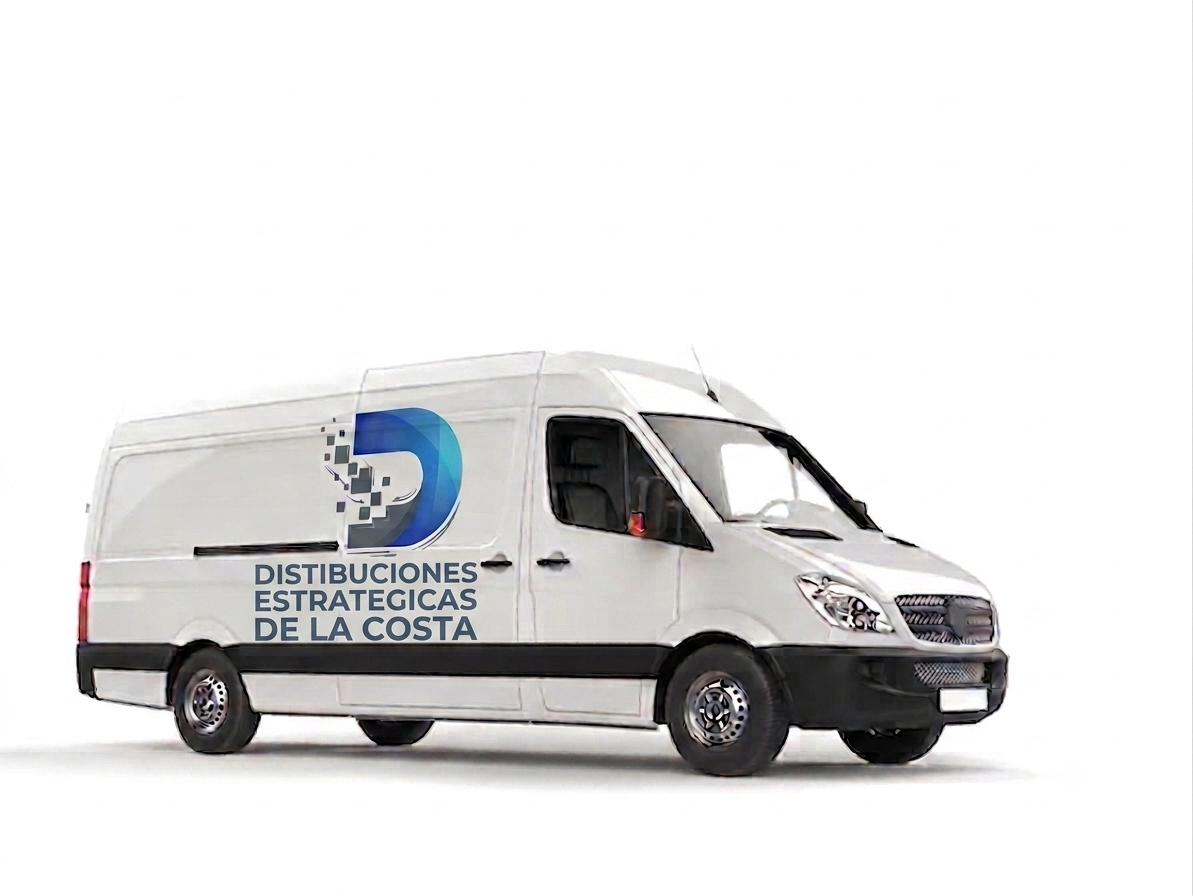
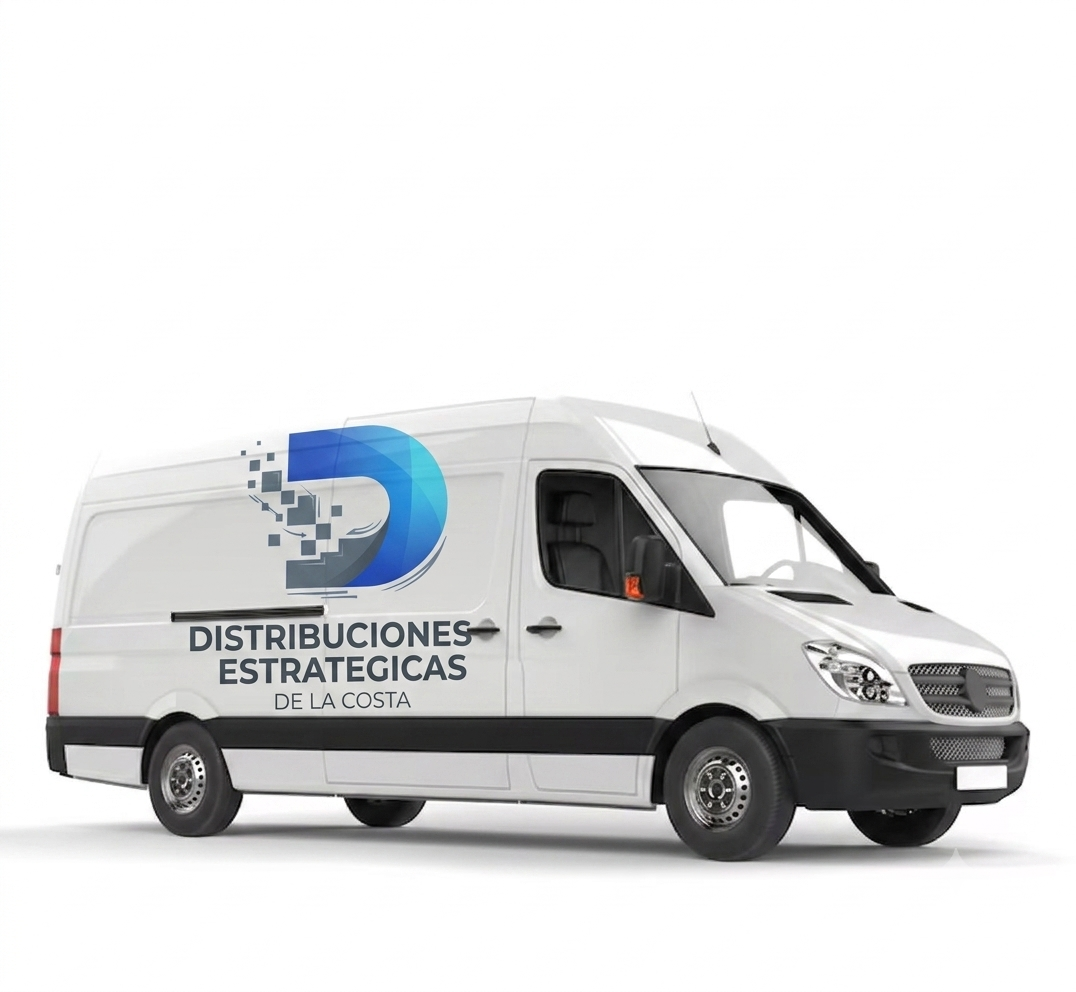
Nueva foto de furgonetas y limpieza de imagenes sin usar
VANS.png llega reemplazada (1076x992) y de ahi sale el fondo del bloque de
cierre: 1.761 KB -> 31 en WebP. La composicion es parecida a la anterior, asi
que el velo oscuro no hace falta tocarlo; comprobado sobre la imagen nueva:
texto blanco en 17,4:1 y furgonetas en 88 sobre 255.

La referencia pasa a llevar version (?v=), que no tenia: el nombre del
archivo no cambia, asi que sin eso el navegador habria seguido mostrando la
foto vieja de su cache.

Se recogen tambien los borrados hechos en la carpeta: los JPG originales de
las categorias, las copias de seguridad (bodega-anterior, hero-float-
anterior) y cat-mobiliario, que quedo sin uso al quitar esa tarjeta. Ninguno
lo usa el sitio.

OJO: dark-preview.html si referencia esos JPG y se quedara sin imagenes. Es
un archivo de pruebas de junio que no esta enlazado desde ninguna pagina; se
deja como esta, pero conviene borrarlo.

Changed region(s): [[0.0307, 0.375, 0.9814, 0.875]]

diff --git a/img/hero-video.html b/img/hero-video.html
@@ -1,0 +1,58 @@
+<!DOCTYPE html><html><head>
+    <meta charset="utf-8">
+    <meta name="author" content="Owner.com">
+    <!--  Set theme color to $background-secondary to match nav and heading on mobile  -->
+    <meta name="theme-color" content="#f6f6f6">
+    <meta name="viewport" content="width=device-width, initial-scale=1, shrink-to-fit=no">
+    <meta name="description" content="Commission-Free Delivery. Increase Sales With Automatic Email Marketing. Free To Use. Setup For You. Built In Loyalty. Automatic Reminders.">
+    <meta name="apple-itunes-app" content="app-id=6743659902">
+
+    <!-- Favicon  -->
+    <link rel="apple-touch-icon" sizes="180x180" href="/favicon/apple-touch-icon.png" integrity="sha384-6uxLe2QAhi3tveOU0YMsTHAWYXXnpsHHd8YCfd8MT60b8htznb3WwYljCkyUiRrj" crossorigin="anonymous">
+    <link rel="icon" type="image/png" sizes="32x32" href="/favicon/favicon-32x32.png" integrity="sha384-KpqoSVw9/h1MWDfSPKFsIIO5uaErd+a34E3KdVlpVvL5DgfdnqJ9uwV2unqKAgjt" crossorigin="anonymous">
+    <link rel="icon" type="image/png" sizes="16x16" href="/favicon/favicon-16x16.png" integrity="sha384-yV4iXRuE/UXK8m8JpNFTbDJT4m3+jQDHOGNaLMkthVDp0IWppoOUC0APeH2pNfgS" crossorigin="anonymous">
+    <link rel="manifest" href="/favicon/site.webmanifest" integrity="sha384-KT8ZbH4czkg/JlGtjf6BDKw1WN8vudJ4C2PQCPn6dg5wpMW8uFV6XrzwY5r66V87" crossorigin="anonymous">
+    <link rel="mask-icon" href="/favicon/safari-pinned-tab.svg" color="#5bbad5" integrity="sha384-f1LjsQKXBk6X+yqmtImKrSaAdDhBZ9fyKv8LjrZdfR1LRzb35e7T1IvZYll3YJKQ" crossorigin="anonymous">
+    <meta name="msapplication-TileColor" content="#00aba9">
+    <meta name="msapplication-config" content="/favicon/browserconfig.xml">
+    <meta name="theme-color" content="#ffffff">
+    <!-- End Favicon -->
+
+    <base href="/">
+    <title>Owner.com</title>
+    <script type="module" crossorigin="anonymous" src="/assets/index-aLDvDnfi.js" integrity="sha384-ACrG8Rr26uhL8jjNcgnbP7hsc4jndA78iS4uvcM5LhWjZ4WKDOSQpGvsZcZDrR0R"></script>
+    <link rel="modulepreload" crossorigin="anonymous" href="/assets/vue-BqVZxQ9f.js" integrity="sha384-z4erki8MC2uF/5DIugJG5isYd41TzQt5SDzo5FiYcuKDNLB/i/qW9MDvcWmMM+ic">
+    <link rel="modulepreload" crossorigin="anonymous" href="/assets/charts-Dg4hjEVw.js" integrity="sha384-NmxvR5y56mgglhLSjni3s8jhePv5XBNYaC9Ea6pw1C9nESjajIJnvaTQvKsDy/dN">
+    <link rel="modulepreload" crossorigin="anonymous" href="/assets/forms-Buoyx-Qp.js" integrity="sha384-eYiBcBDjJYCa7IfdMe0/5KROEVL5WFRfOFpi9Vdn4eCiF4OycEEzzbFP8j3K74Rq">
+    <link rel="modulepreload" crossorigin="anonymous" href="/assets/vendor-D5pQII9V.js" integrity="sha384-/LanxTZ6Tn3qlCVk7boDee/AiDKQpZFJJCMDN6Sf8v61SbV/RxauTe5lvdYPVbHA">
+    <link rel="modulepreload" crossorigin="anonymous" href="/assets/owner-packages-CFFwKFSs.js" integrity="sha384-1gUyTwbS2/dVDPA5gGCQ749u6HzjTeN1m9gDUH4KV7f8XojPJPKw9IflCMO30iLE">
+    <link rel="modulepreload" crossorigin="anonymous" href="/assets/phosphor-BIoYOXK1.js" integrity="sha384-LqE+iULecqZDCdDAVLp7/rBweKm8VLNISjsbaAKatyhdmiKUt2qTK0fIC61YNYQ0">
+    <link rel="modulepreload" crossorigin="anonymous" href="/assets/pdf-B1XSSh5m.js" integrity="sha384-pRm24JMg9rxVx/ADIO84bfNsDwI2/xHwyyeJ8o9Wg3P/hfXQQDLGsPpbIiRozCd0">
+    <link rel="stylesheet" crossorigin="anonymous" href="/assets/index-DqVcZJc2.css" integrity="sha384-Lj7a25DaqP140oCx/CLA6Y3rwYaX0KxfPeRBUdBkYjXCQRkMh55WKGCA1XLt2WSH">
+  </head>
+
+  <body>
+    <div id="app"></div>
+
+    <noscript>
+      <strong>We're sorry but the Owner.com dashboard doesn't work properly without
+        JavaScript enabled. Please enable it to continue.</strong>
+    </noscript>
+
+    <script type="text/javascript" src="https://cdn.goentri.com/entri.js"></script>
+
+
+    <script>
+      function gApiCallback() {
+        // Google api now requires a global callback...
+      }
+    </script>
+
+    <script src="https://maps.googleapis.com/maps/api/js?libraries=places&amp;key=AIzaSyDwEBxa2gmuhgwXJcQMQM6gEdym0AEHzKw&amp;callback=gApiCallback&amp;loading=async" async=""></script>
+
+    <!-- Start of HubSpot Embed Code -->
+    <script type="text/javascript" id="hs-script-loader" async="" defer="" src="//js.hs-scripts.com/6449395.js"></script>
+    <!-- End of HubSpot Embed Code -->
+  
+
+</body></html>

diff --git a/contacto.html b/contacto.html
@@ -183,7 +183,7 @@
 </div></section>
 
 <div class="cta">
-  <div class="cta-bg" style="background-image:url('img/van.webp')"></div>
+  <div class="cta-bg" style="background-image:url('img/van.webp?v=fase9q')"></div>
   <div class="cta-in">
     <h2>¿Prefieres que <span class="grad">te llamemos?</span></h2>
     <p>Escríbenos por WhatsApp con tu lista y te devolvemos la cotización el mismo día.</p>

diff --git a/empresas.html b/empresas.html
@@ -183,7 +183,7 @@
 </div></section>
 
 <div class="cta">
-  <div class="cta-bg" style="background-image:url('img/van.webp')"></div>
+  <div class="cta-bg" style="background-image:url('img/van.webp?v=fase9q')"></div>
   <div class="cta-in">
     <h2>¿Listo para abastecer <span class="grad">tu empresa?</span></h2>
     <p>Cuéntanos qué necesitas y recibe tu cotización corporativa hoy mismo.</p>

diff --git a/index.html b/index.html
@@ -166,7 +166,7 @@
 
 <!-- CTA -->
 <div class="cta">
-  <div class="cta-bg" style="background-image:url('img/van.webp')"></div>
+  <div class="cta-bg" style="background-image:url('img/van.webp?v=fase9q')"></div>
   <div class="cta-in">
     <h2>¿Listo para abastecer <span class="grad">tu empresa?</span></h2>
     <p>Cotiza en línea y recibe tus productos el mismo día en Barranquilla.</p>

diff --git a/faq.html b/faq.html
@@ -200,7 +200,7 @@
 </div></section>
 
 <div class="cta">
-  <div class="cta-bg" style="background-image:url('img/van.webp')"></div>
+  <div class="cta-bg" style="background-image:url('img/van.webp?v=fase9q')"></div>
   <div class="cta-in">
     <h2>¿No encontraste <span class="grad">tu respuesta?</span></h2>
     <p>Escríbenos por WhatsApp y un asesor te responde de inmediato.</p>
